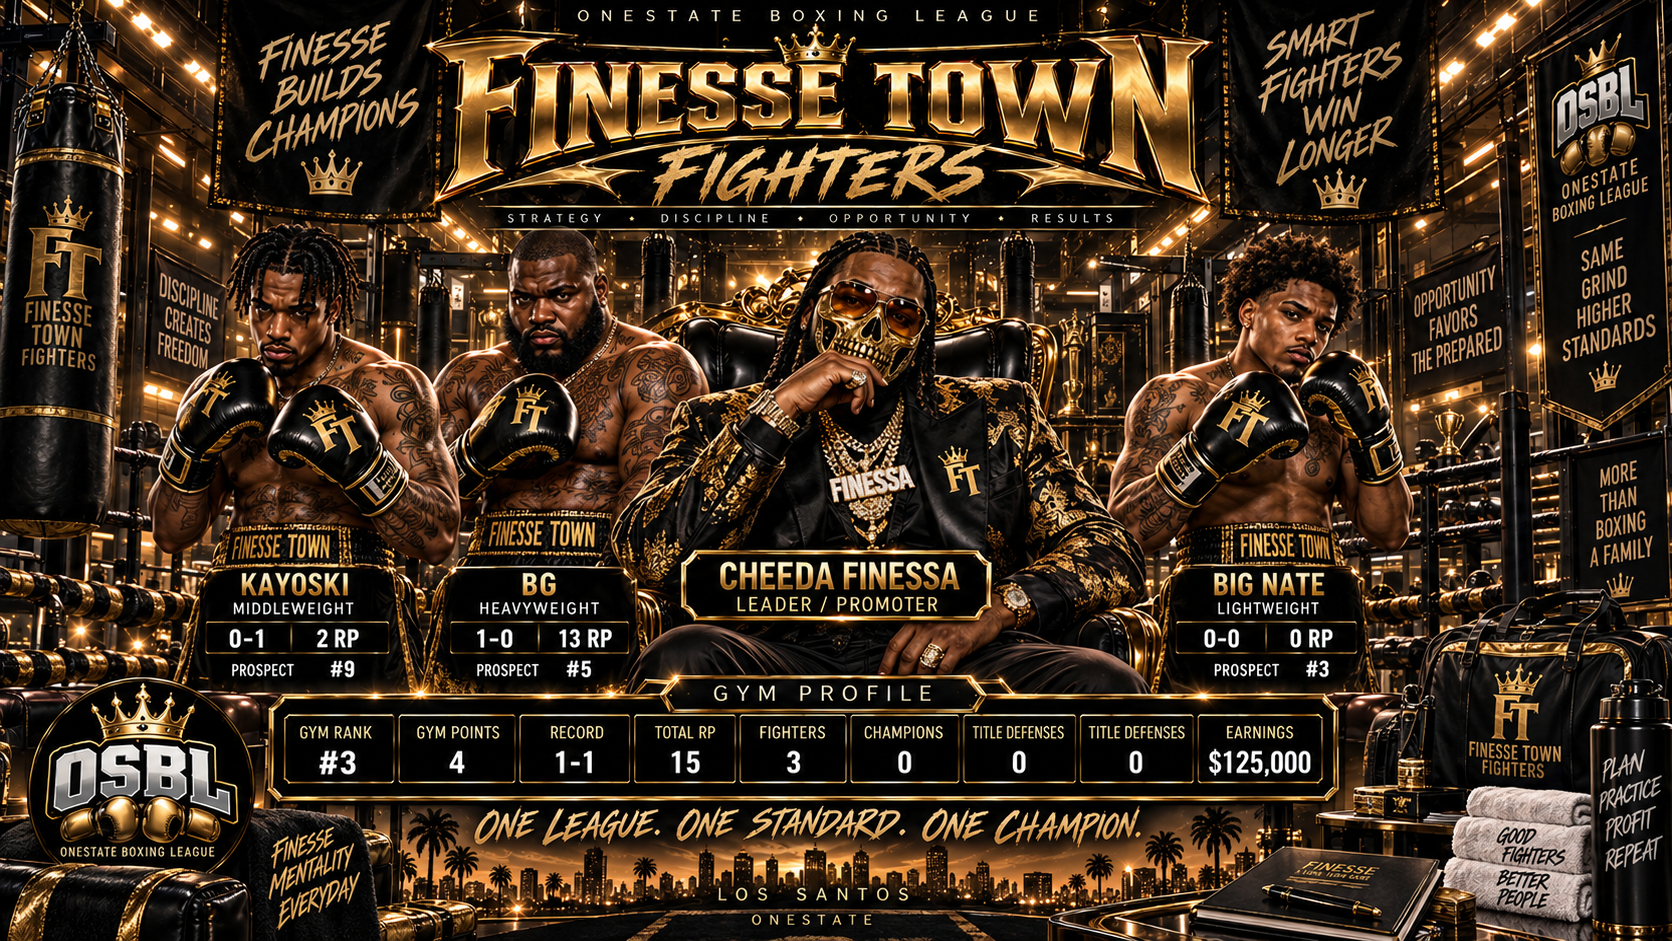
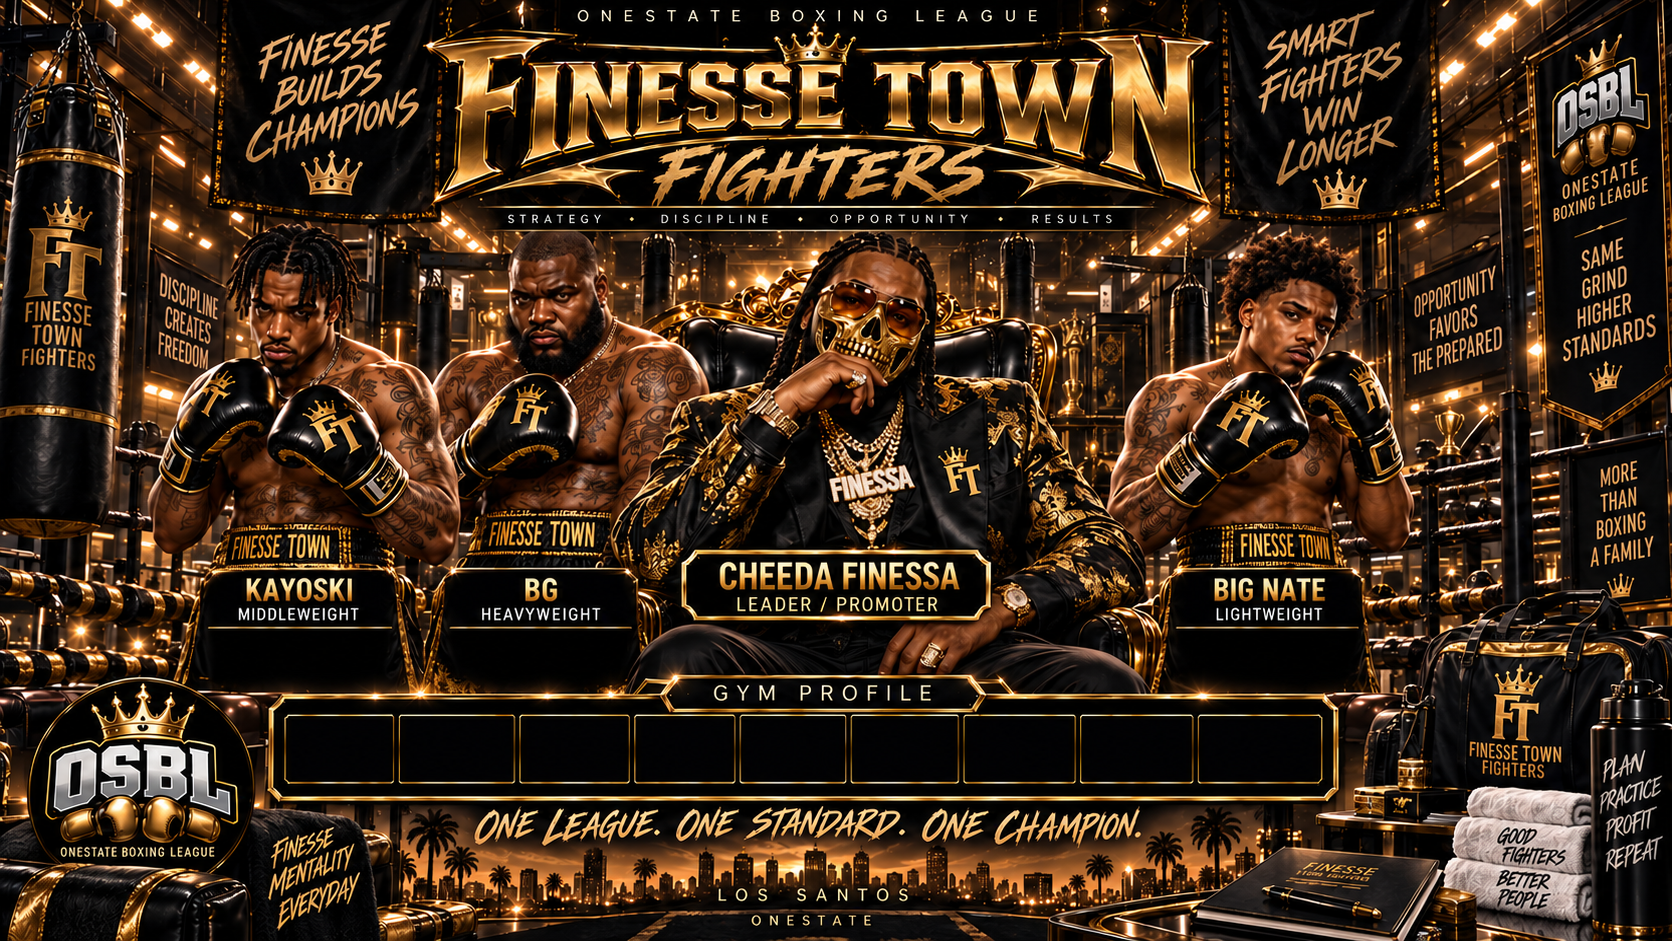
Replaced gym posters with clean live-stat templates

Changed region(s): [[0.0, 0.0, 1.0, 1.0], [0.3732, 0.0, 0.4043, 0.0308]]

diff --git a/bot.py b/bot.py
@@ -337,7 +337,7 @@ POSTER_RENDERER_VERSION = "V5-CHAMPIONSHIP-2026-09-07"
 RANKINGS_SYSTEM_VERSION = "V1-AUTO-RANKINGS-2026-09-08"
 FIGHTER_PROFILE_VERSION = "V3-OFFICIAL-FIGHTER-CARDS-2026-09-08"
 GYM_SYSTEM_VERSION = "V1-GYM-STANDINGS-2026-09-08"
-GYM_POSTER_VERSION = "V1-GYM-POSTERS-2026-09-08"
+GYM_POSTER_VERSION = "V2-CLEAN-GYM-POSTERS-2026-09-08"
 
 # =========================================================
 # SYSTEM HEALTH CHECK
